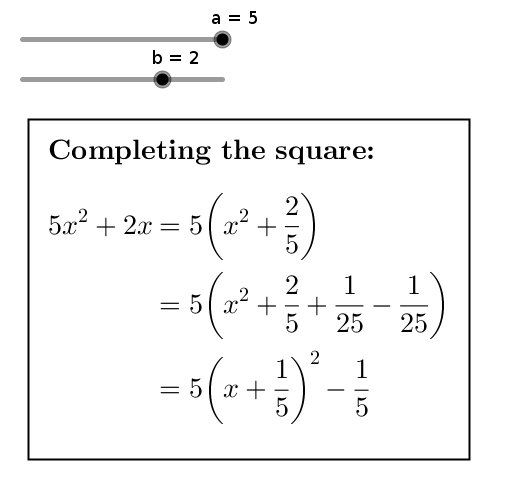
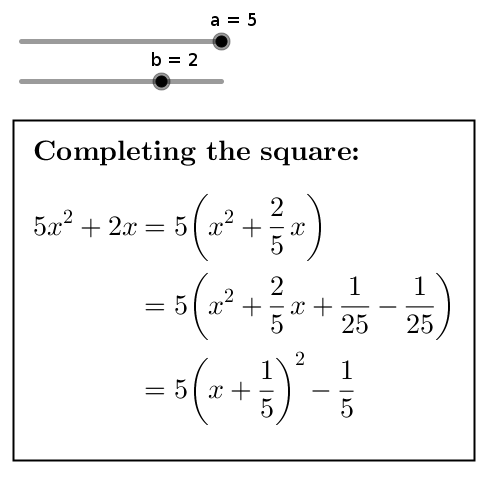
Fix example

diff --git a/examples/example.tex b/examples/example.tex
@@ -3,8 +3,8 @@
   \\
   \begin{aligned}
     @a@ x^2 + @b@ x
-    &= @a@ \left( x^2 + @FractionText(b/a)@ \right) \\
-    &= @a@ \left( x^2 + @FractionText(b/a)@ +
+    &= @a@ \left( x^2 + @FractionText(b/a)@ x \right) \\
+    &= @a@ \left( x^2 + @FractionText(b/a)@ x +
       @FractionText(b^2/(4*a^2))@ -  @FractionText(b^2/(4*a^2))@ \right) \\
     &= @a@ \left( x + @FractionText(b/(2a))@ \right)^2 - @FractionText(b^2/(4a))@
   \end{aligned}
